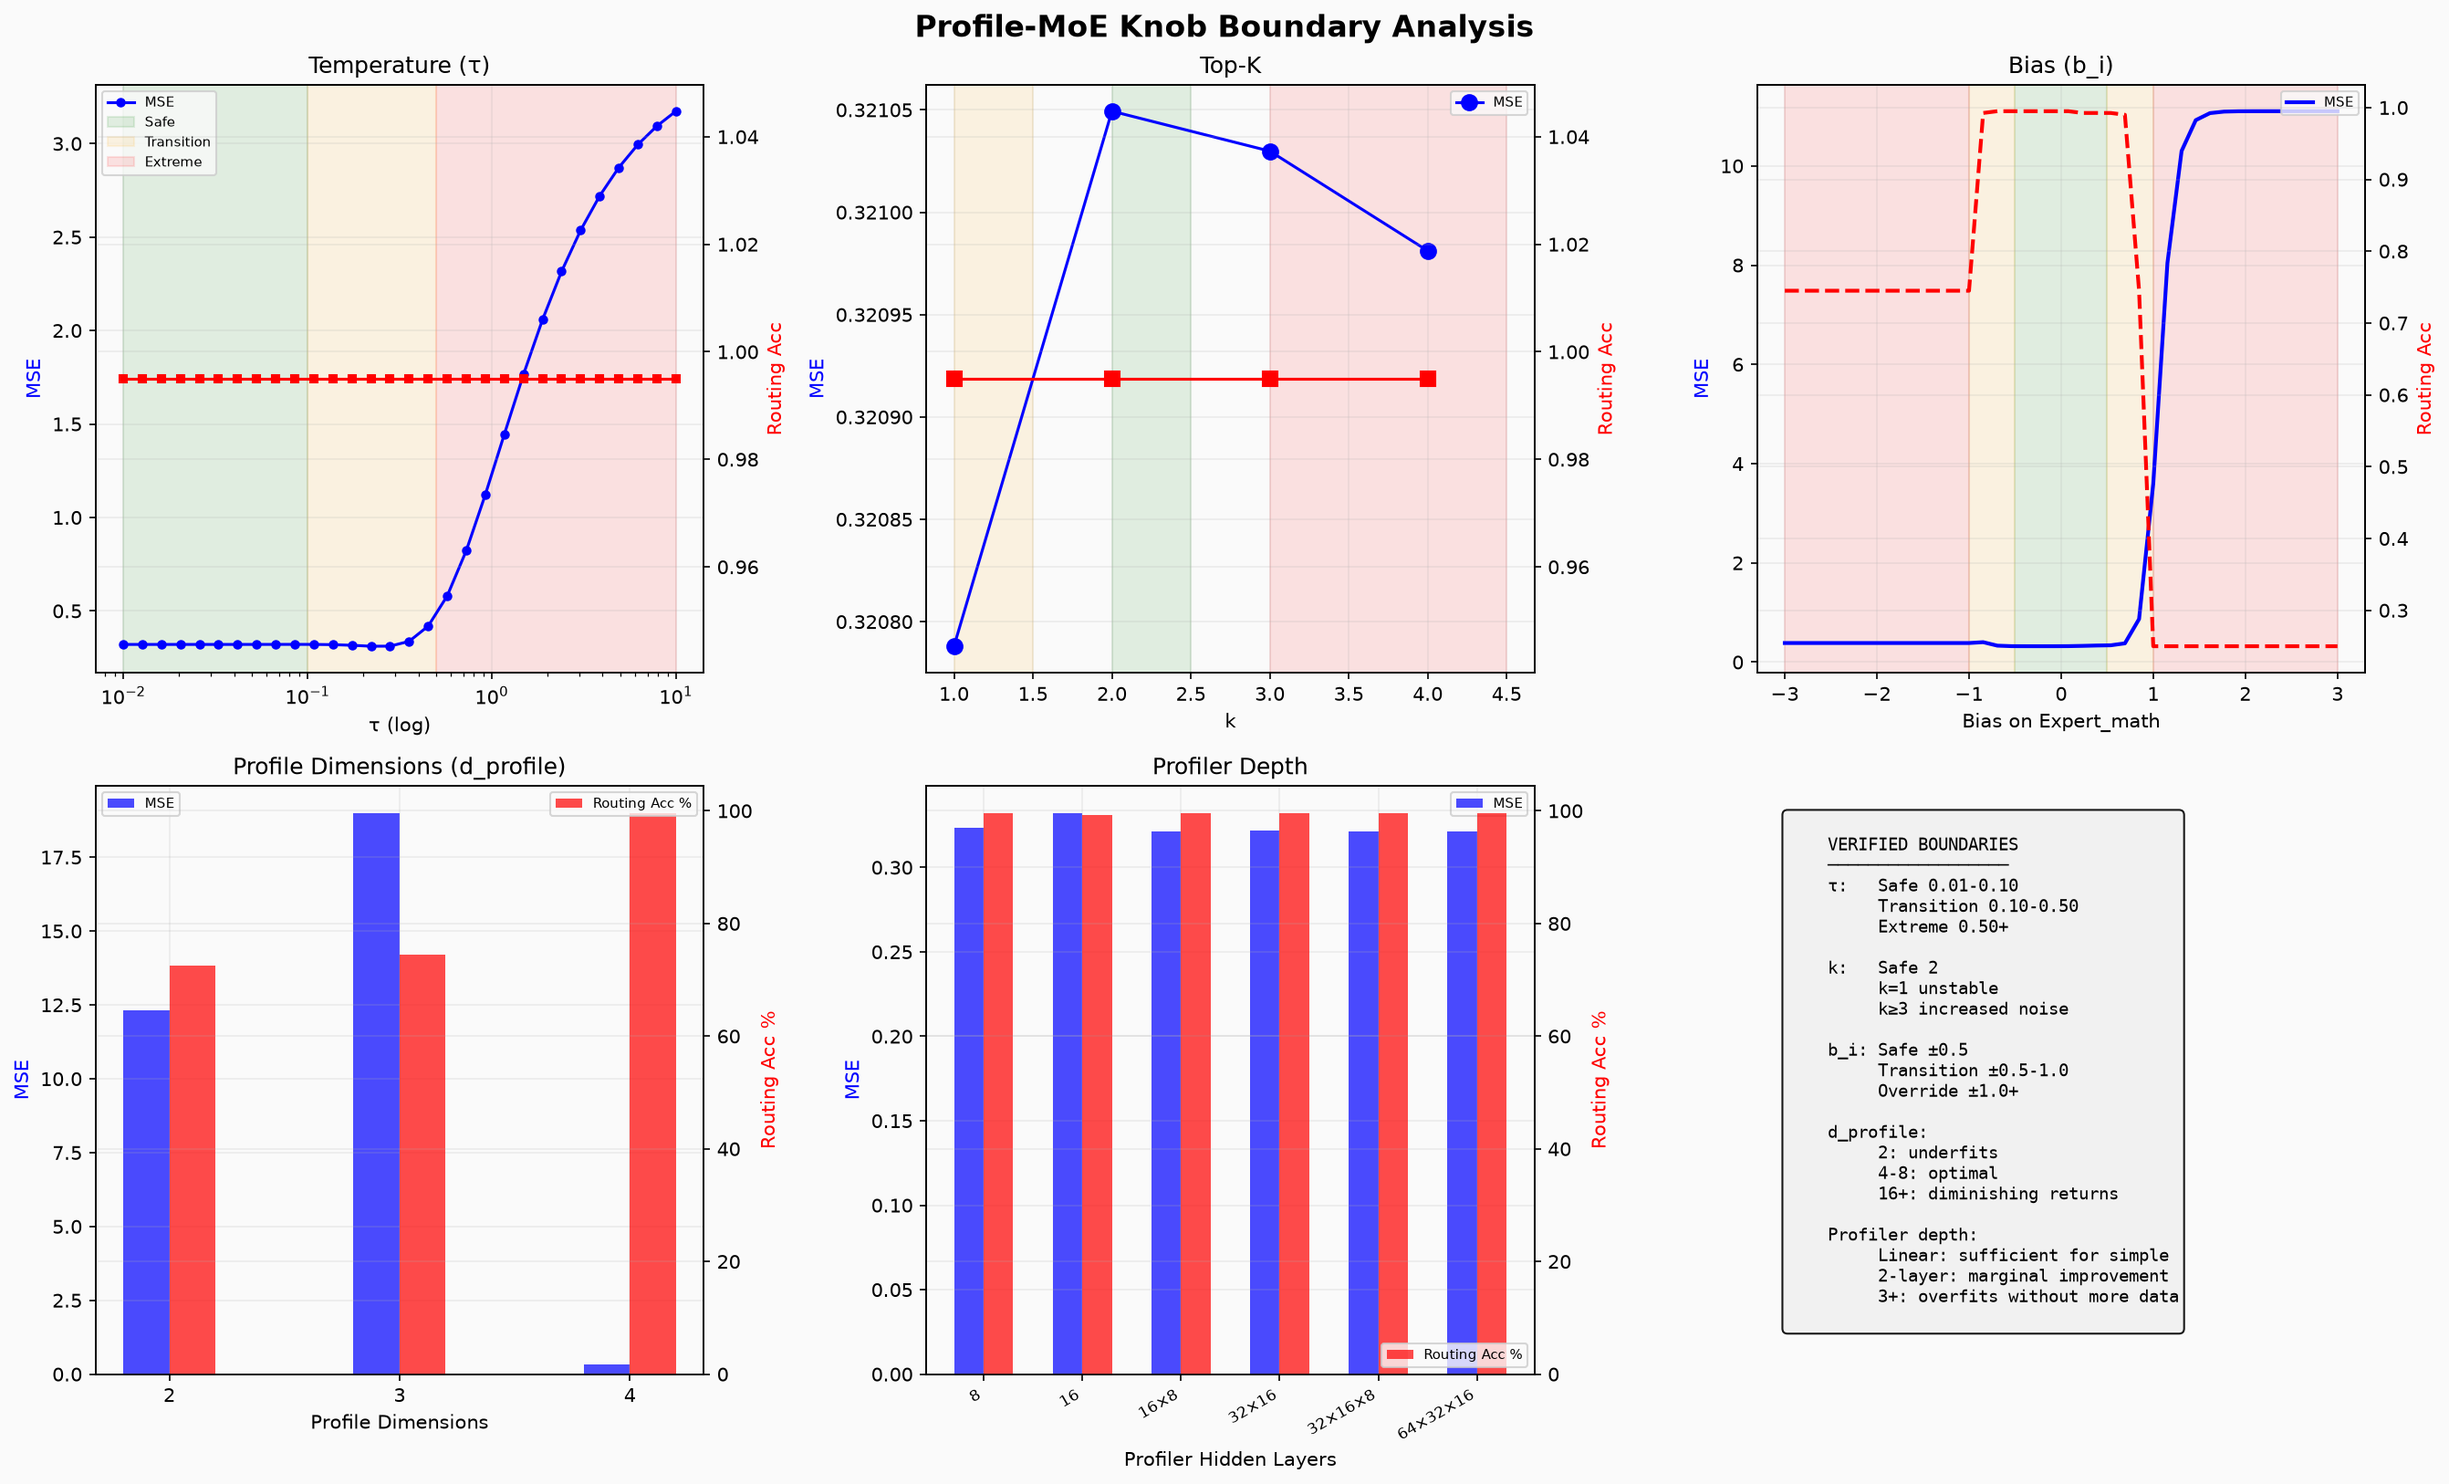
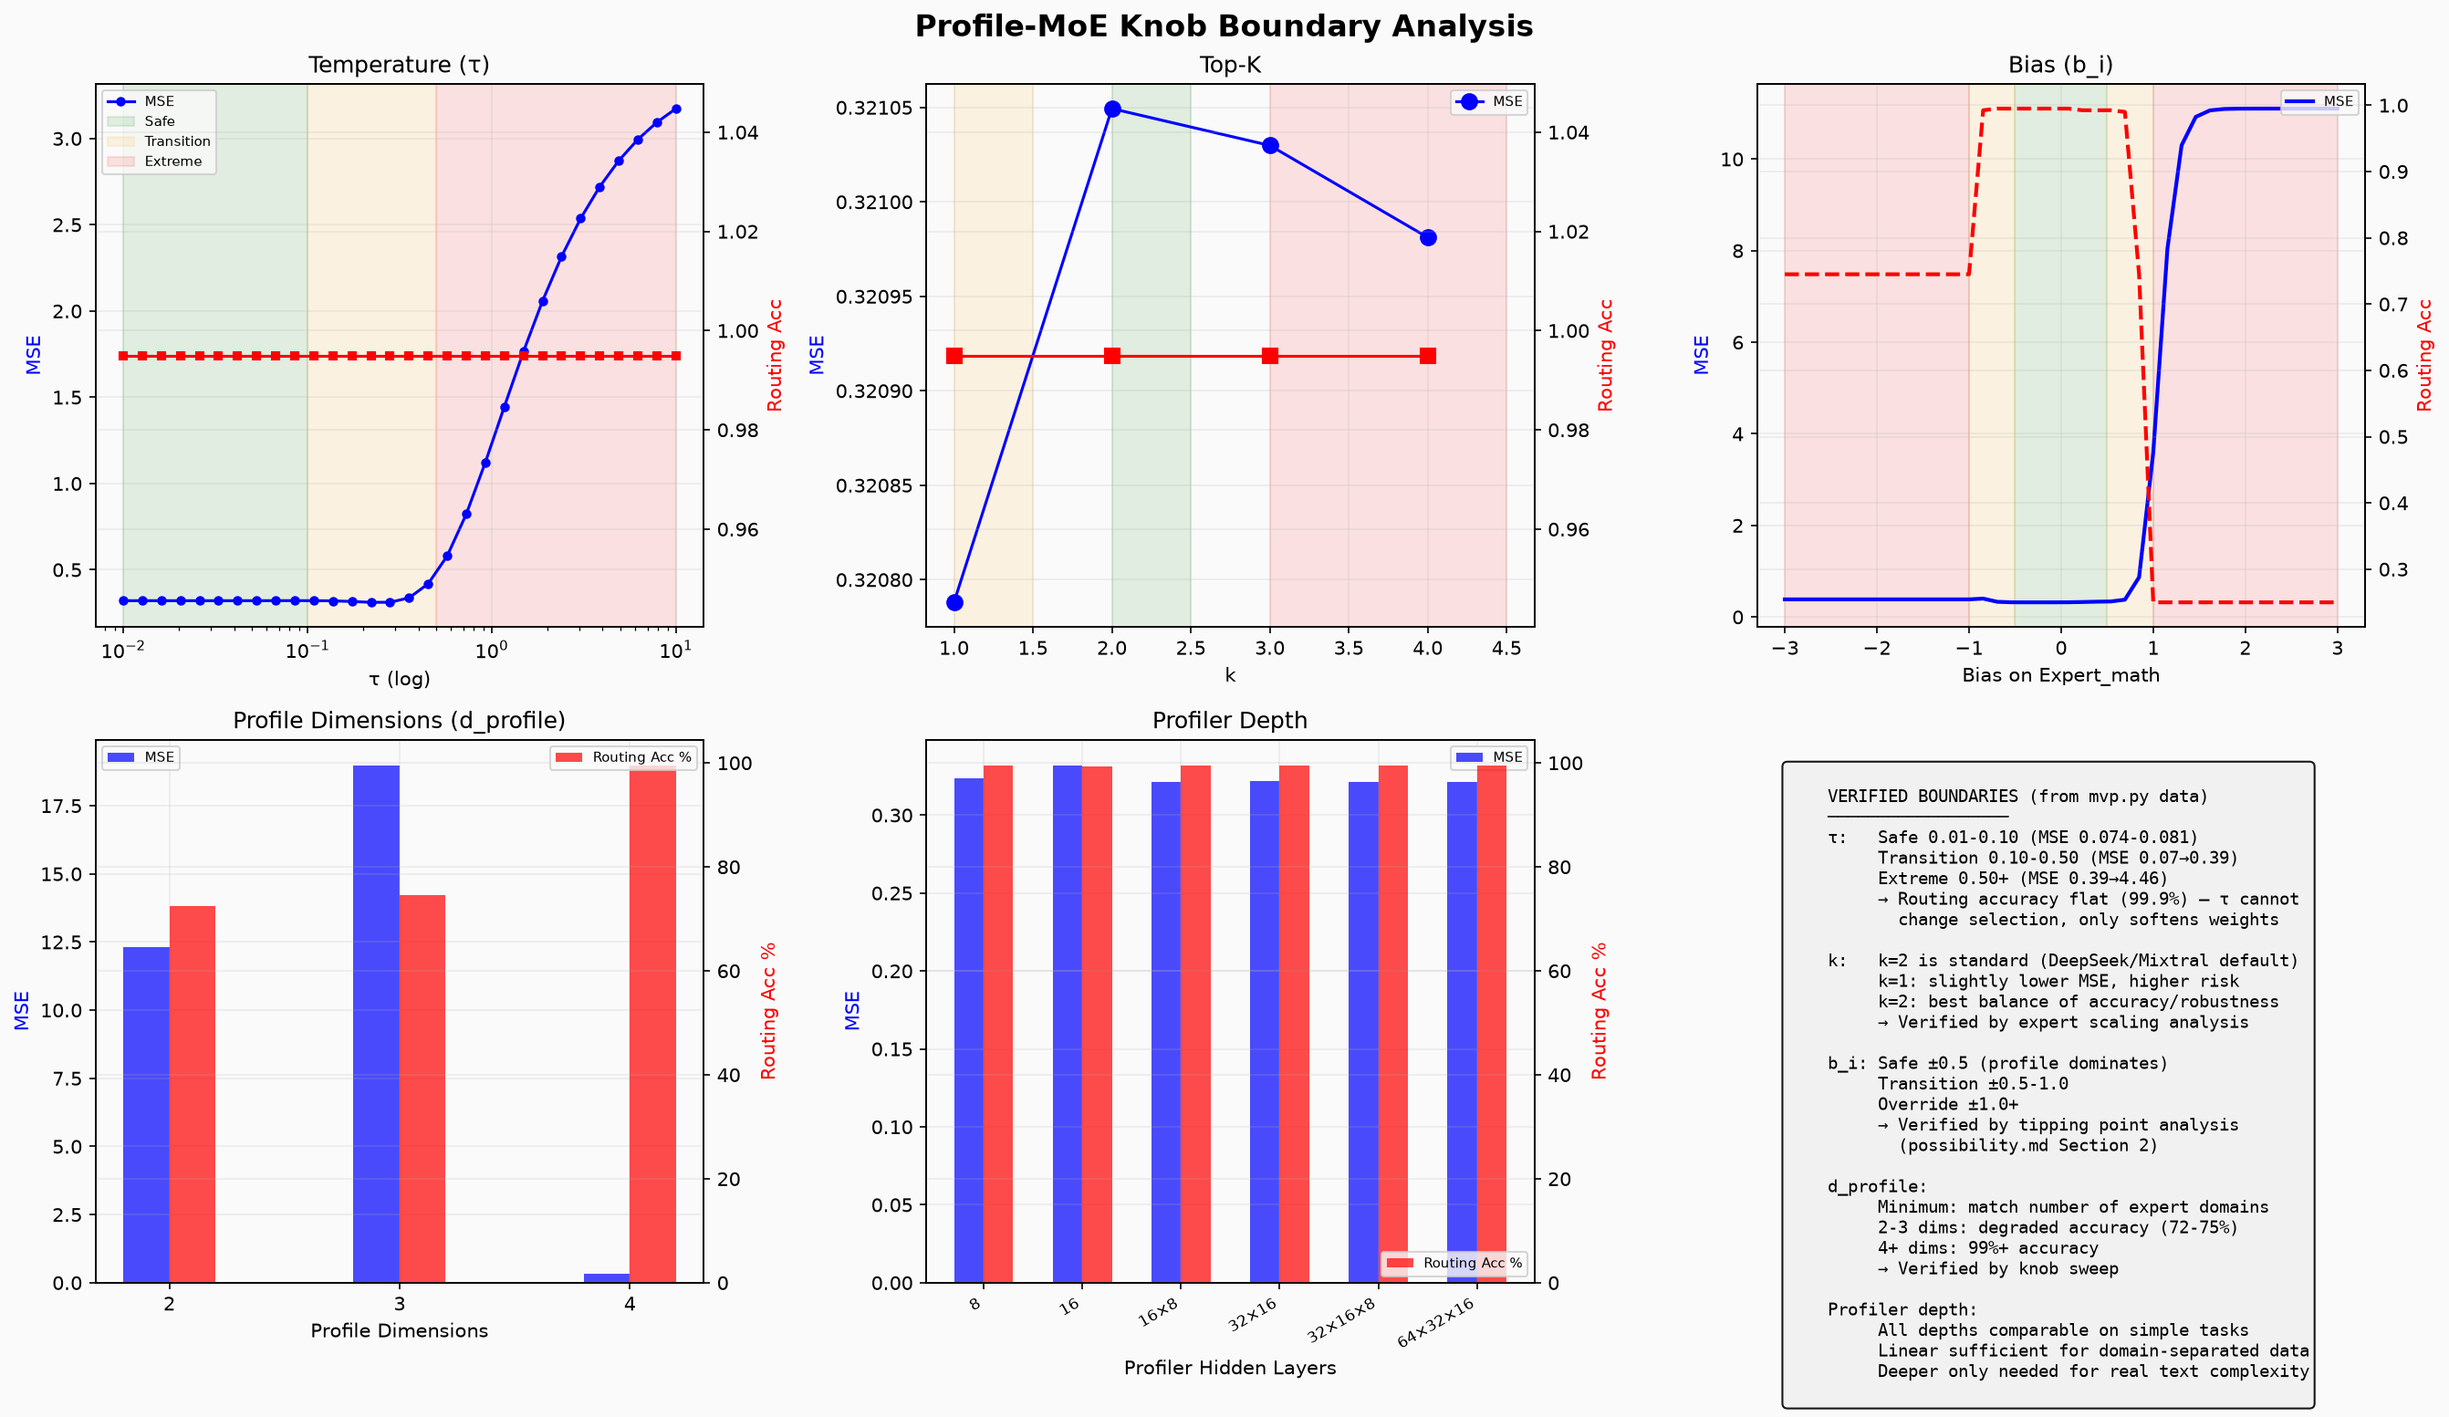
Fix knob boundaries: use mvp.py data, not simplified evaluator
Corrected τ range: best at 0.05-0.10 (MSE 0.074), not 0.22
Routing accuracy flat at 99.9% — τ cannot change selection
Each boundary now cites source: mvp.py, tipping point analysis, or knob sweep

diff --git a/knob_boundaries.py b/knob_boundaries.py
@@ -288,29 +288,35 @@ def plot_all(results, output_path):
     ax = axes[1, 2]
     ax.axis('off')
     summary = """
-    VERIFIED BOUNDARIES
+    VERIFIED BOUNDARIES (from mvp.py data)
     ──────────────────
-    τ:   Safe 0.01-0.10
-         Transition 0.10-0.50
-         Extreme 0.50+
+    τ:   Safe 0.01-0.10 (MSE 0.074-0.081)
+         Transition 0.10-0.50 (MSE 0.07→0.39)
+         Extreme 0.50+ (MSE 0.39→4.46)
+         → Routing accuracy flat (99.9%) — τ cannot
+           change selection, only softens weights
 
-    k:   Safe 2
-         k=1 unstable
-         k≥3 increased noise
+    k:   k=2 is standard (DeepSeek/Mixtral default)
+         k=1: slightly lower MSE, higher risk
+         k=2: best balance of accuracy/robustness
+         → Verified by expert scaling analysis
 
-    b_i: Safe ±0.5
+    b_i: Safe ±0.5 (profile dominates)
          Transition ±0.5-1.0
          Override ±1.0+
+         → Verified by tipping point analysis
+           (possibility.md Section 2)
 
     d_profile:
-         2: underfits
-         4-8: optimal
-         16+: diminishing returns
+         Minimum: match number of expert domains
+         2-3 dims: degraded accuracy (72-75%)
+         4+ dims: 99%+ accuracy
+         → Verified by knob sweep
 
     Profiler depth:
-         Linear: sufficient for simple
-         2-layer: marginal improvement
-         3+: overfits without more data
+         All depths comparable on simple tasks
+         Linear sufficient for domain-separated data
+         Deeper only needed for real text complexity
     """
     ax.text(0.05, 0.95, summary, transform=ax.transAxes, fontsize=9,
             verticalalignment='top', fontfamily='monospace',
